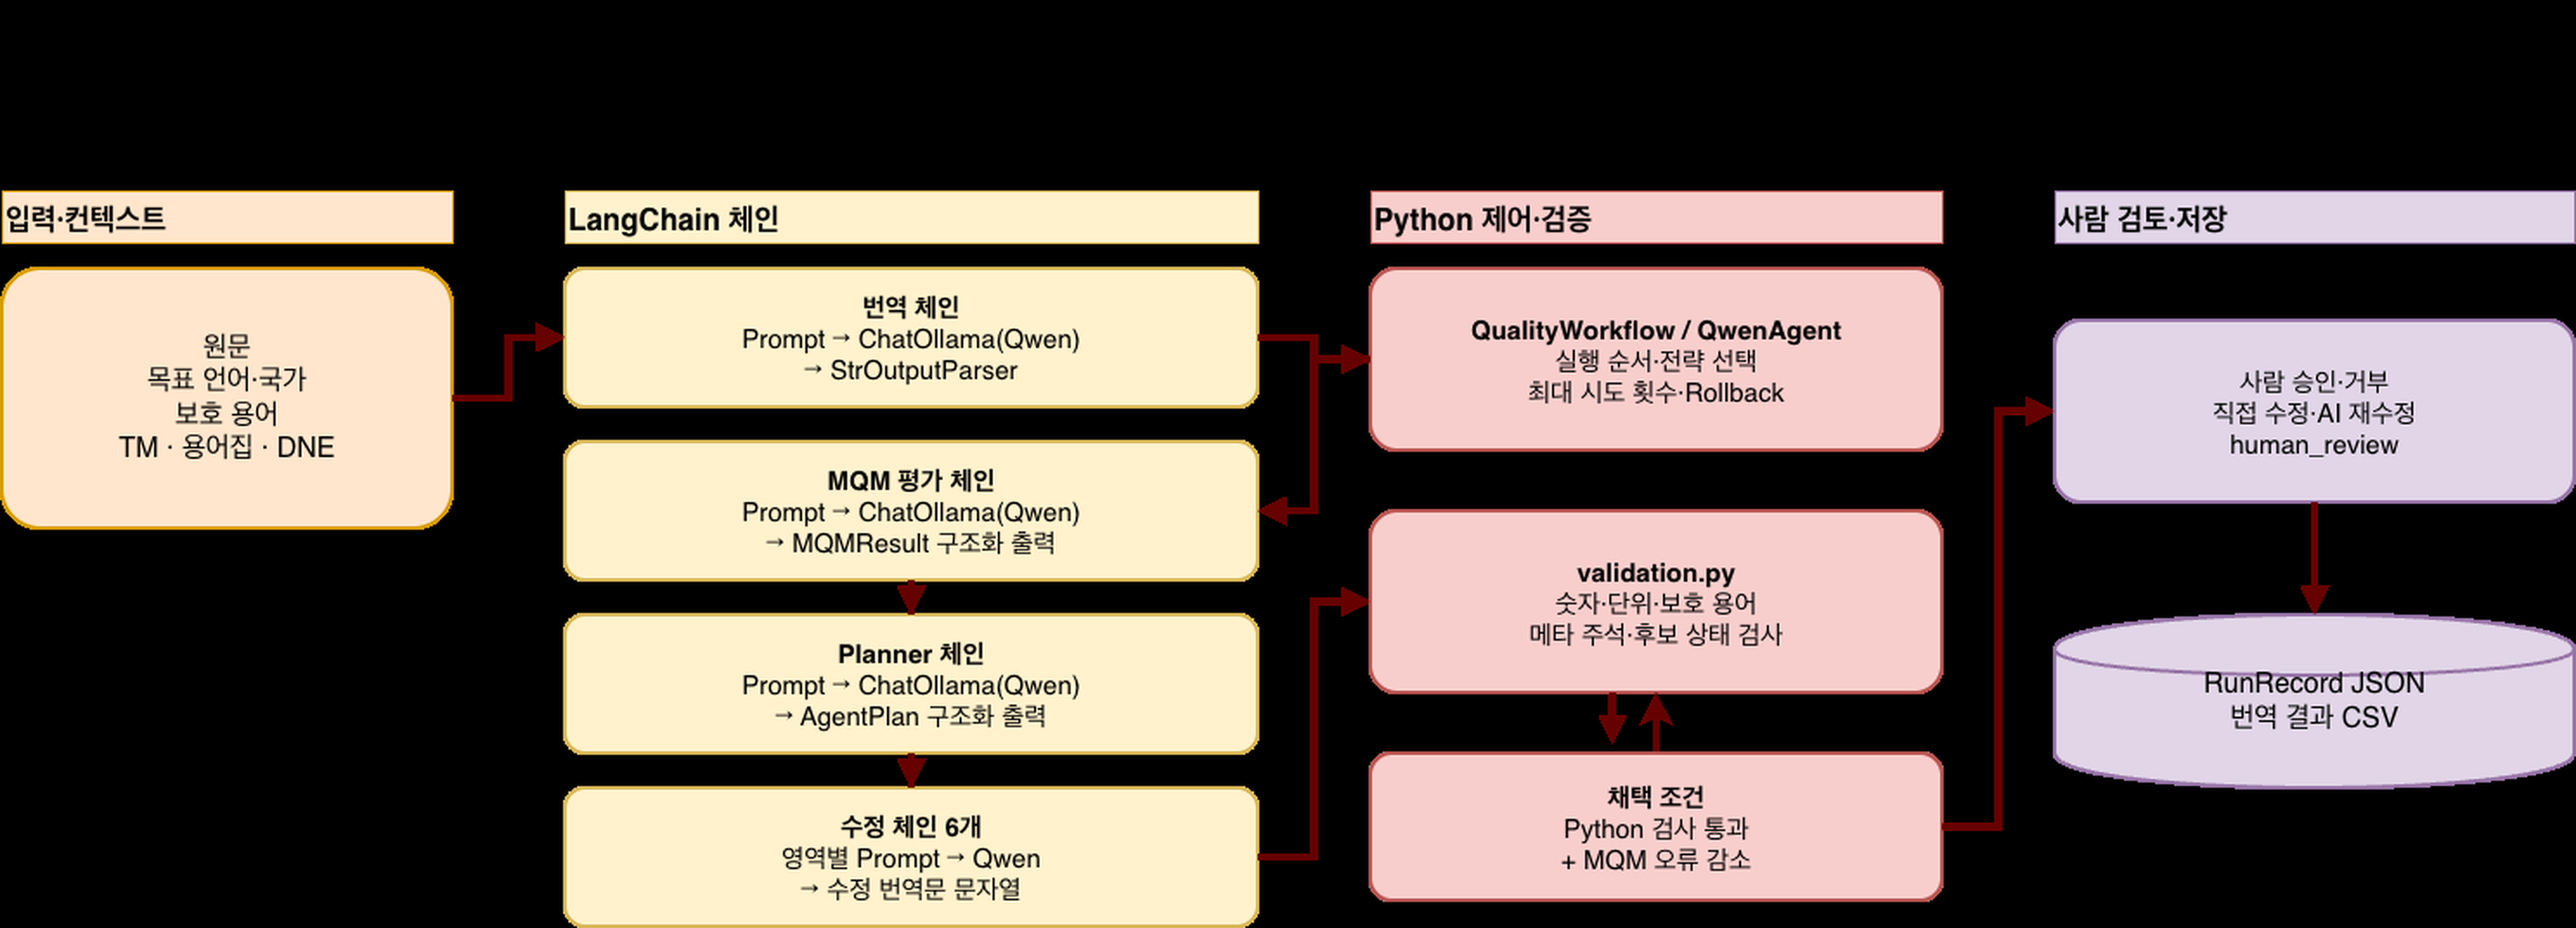
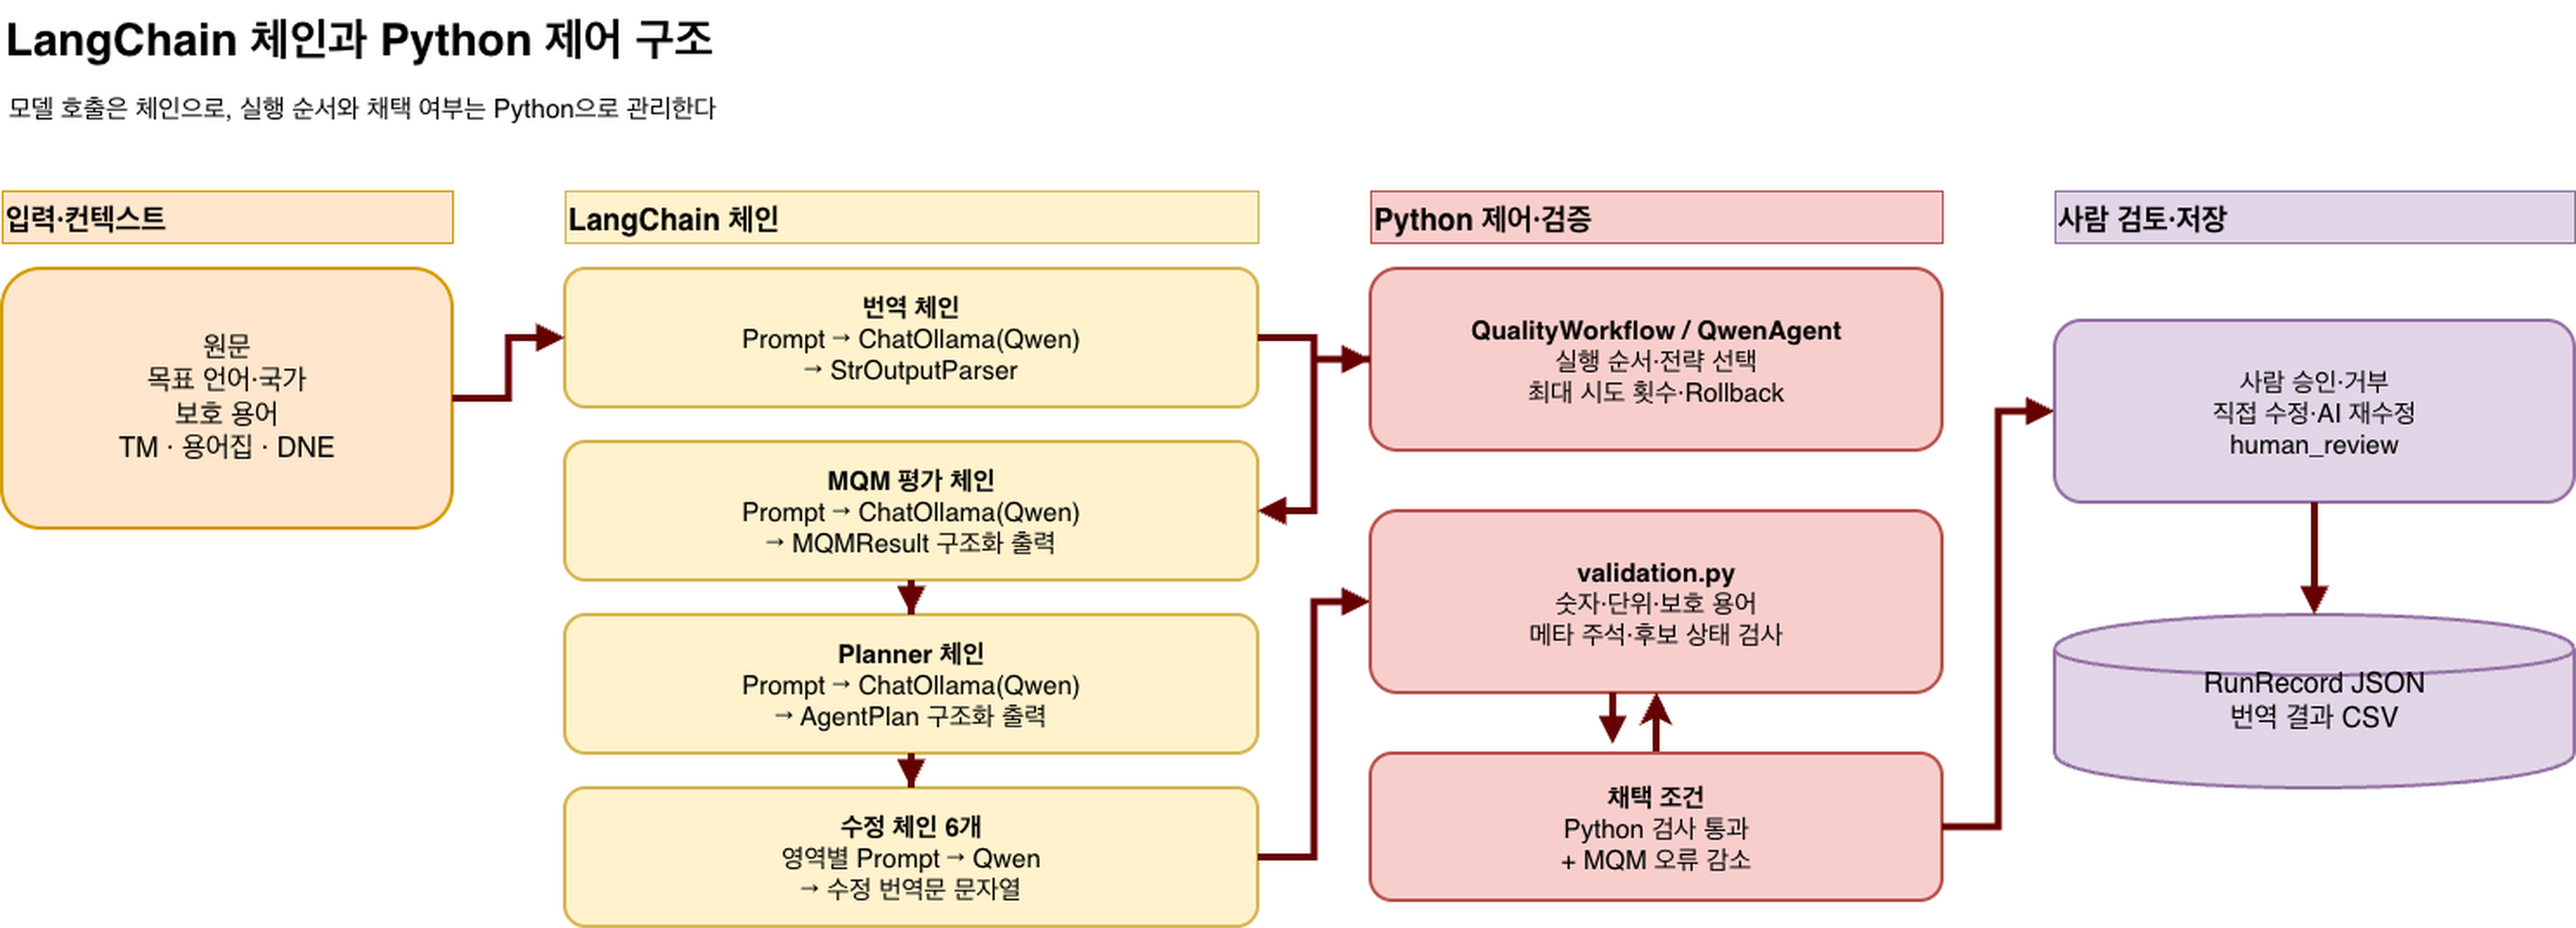
README: describe STAT 420 textbook as UIUC statistics textbook

diff --git a/README.md b/README.md
@@ -179,4 +179,4 @@ pytest -q tests                    # 테스트
 
 - ORCID: [0009-0007-0605-7760](https://orcid.org/0009-0007-0605-7760)
 - GitHub: [@sihunwang-skala](https://github.com/sihunwang-skala) (현재 사용 중인 계정) · 이전 계정 [@sihunwang](https://github.com/sihunwang)과 동일 인물이 운영합니다.
-- *Applied Statistics with R* (David Dalpiaz, STAT 420 교재) 기여자로 [책의 감사 명단](https://book.stat420.org/)에 이름이 올라 있습니다.
+- 일리노이 대학교(UIUC) 통계학 교과서 *Applied Statistics with R* (David Dalpiaz, STAT 420) 기여자로 [책의 감사 명단](https://book.stat420.org/)에 이름이 올라 있습니다.
